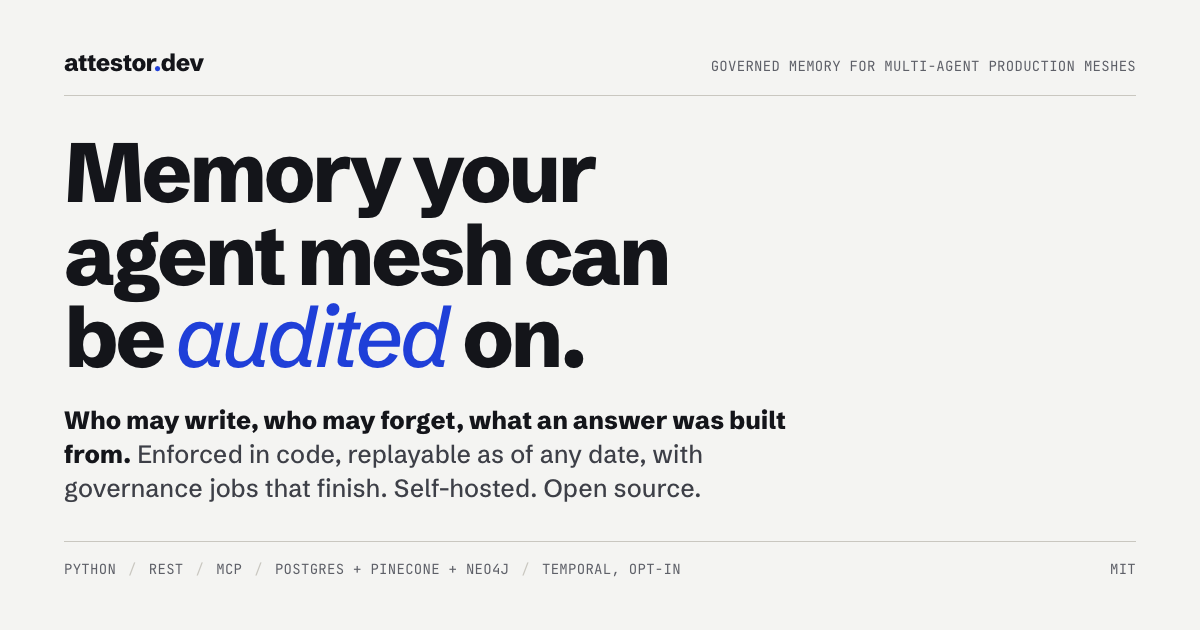
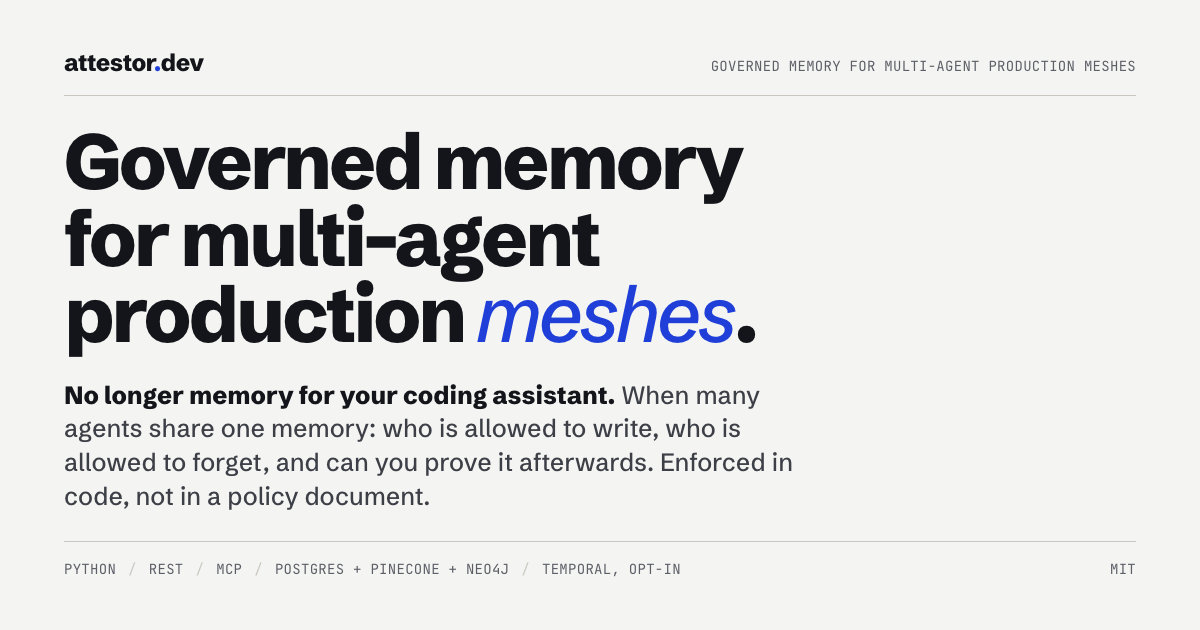
docs(positioning): the site follows the positioning statement (#190)
The landing page and README intro now carry the argument for the pivot,
in the author's words, not only its conclusion:

- hero: "Governed memory for multi-agent production meshes." with the
  deck "Attestor is no longer memory for your coding assistant. When many
  agents share one memory: who is allowed to write, who is allowed to
  forget, and can you prove it afterwards."
- "Three things happened": editor vendors shipped memory for free, the
  benchmark race became a race about which LLM answers, every serious
  conversation was about write / forget / prove. So that is what
  Attestor is now.
- "What that means in the code, not the deck": each enforcement row now
  leads with the statement's sentence (reviewers are read-only because a
  reviewer that writes contaminates the evidence trail; what the mesh
  believed last Tuesday; audit row first, per-backend counts, partial
  failure visible never silent; tenant isolation on all three stores, not
  only the database; the governance jobs themselves are durable), with the
  file references and limits kept underneath.
- "That is the whole pitch": every row names the file, the limits are
  written next to the claims, and if a memory layer cannot show the
  enforcing line it is a policy document.
- closing band is the statement's ask: regulated-setting agent meshes,
  "I would like to talk", linking to the author's LinkedIn.
- README intro gains the same "no longer memory for your coding assistant"
[…]

Changed region(s): [[0.0308, 0.2111, 0.6783, 0.8143]]

diff --git a/docs/index.html b/docs/index.html
@@ -6,7 +6,7 @@
 <meta name="color-scheme" content="light dark">
 <title>Attestor: governed memory for multi-agent production meshes</title>
 <meta name="description" content="Self-hosted memory for agent meshes that have to answer to someone. Role-based access, provenance on every memory, per-agent budgets, a deterministic read path, as_of replay, hard tenant isolation, auditable forget. MIT.">
-<meta property="og:title" content="Attestor: memory your agent mesh can be audited on">
+<meta property="og:title" content="Attestor: governed memory for multi-agent production meshes">
 <meta property="og:description" content="Who may write, who may forget, what an answer was built from. Enforced in code, not in a policy document. Open source, MIT.">
 <meta property="og:image" content="https://attestor.dev/og-image.png">
 <meta property="og:type" content="website">
@@ -114,7 +114,7 @@ h2 em{font-style:italic;font-weight:500;color:var(--acc)}
 .group h3{font-size:clamp(24px,2.4vw,30px);line-height:1.05;font-weight:700;letter-spacing:-0.025em;color:var(--ink)}
 .group .thesis{margin-top:12px;font-size:16px;color:var(--ink2);max-width:30ch}
 .items{display:grid;gap:26px}
-.item h4{font-size:20px;font-weight:600;line-height:1.25;letter-spacing:-0.01em;color:var(--ink)}
+.item h4{font-size:20px;font-weight:600;line-height:1.25;letter-spacing:-0.01em;color:var(--ink);max-width:40ch}
 .item h4 code{font-weight:400}
 .item p{margin-top:6px;font-size:15.5px;line-height:1.55;color:var(--ink2);max-width:62ch}
 .item p strong{color:var(--ink);font-weight:600}
@@ -202,7 +202,7 @@ h2 em{font-style:italic;font-weight:500;color:var(--acc)}
 :root[data-theme="dark"] .band{background:var(--bg3);color:var(--ink)}
 @media(prefers-color-scheme:dark){:root:not([data-theme="light"]) .band{background:var(--bg3);color:var(--ink)}}
 @media(max-width:860px){.band{grid-template-columns:1fr;padding:40px 28px}}
-.band h2{color:inherit;font-size:clamp(26px,3vw,40px);max-width:22ch}
+.band h2{color:inherit;font-size:clamp(26px,3vw,40px);max-width:24ch}
 .band p{margin-top:14px;font-size:17px;opacity:.8;max-width:44ch}
 .band-cta{display:flex;gap:12px;flex-wrap:wrap;justify-content:flex-end}
 @media(max-width:860px){.band-cta{justify-content:flex-start}}
@@ -236,8 +236,8 @@ footer{border-top:1px solid var(--line);padding:32px 0 56px}
 
   <header class="hero">
     <div>
-      <h1 class="rise">Memory your agent mesh can be <em>audited</em> on.</h1>
-      <p class="lede rise">Who may write, who may forget, and what an answer was built from: enforced in code, not in a policy document.</p>
+      <h1 class="rise">Governed memory for multi-agent production <em>meshes</em>.</h1>
+      <p class="lede rise">Attestor is no longer memory for your coding assistant. When many agents share one memory: who is allowed to write, who is allowed to forget, and can you prove it afterwards.</p>
       <div class="hero-cta rise">
         <a href="inside_attestor.html" class="btn btn-p btn-lg">Read the architecture</a>
         <a href="https://github.com/bolnet/attestor" class="btn btn-s btn-lg">Read the source</a>
@@ -262,8 +262,8 @@ mem.<span class="fn">recall</span>(<span class="kw">"..."</span>, context=ctx,
   </header>
 
   <section id="why">
-    <h2>Recall is the <em>easy</em> part.</h2>
-    <p class="sec-lede">Any vector store can hand an agent something relevant. A mesh in production has a harder problem: the memory is shared, the agents are not equally trusted, and one day someone who was not in the room will ask how a decision was made.</p>
+    <h2>Three things <em>happened</em>.</h2>
+    <p class="sec-lede">For a few months this was a memory layer for coding assistants. Then the editor vendors shipped memory for free. The benchmark race became a race about which LLM answers the question. And every serious conversation was about something else entirely: when many agents share one memory, who is allowed to write, who is allowed to forget, and can you prove it afterwards. So that is what Attestor is now.</p>
     <div class="qs">
       <div class="q">
         <h3>Who wrote this, on whose behalf?</h3>
@@ -281,8 +281,8 @@ mem.<span class="fn">recall</span>(<span class="kw">"..."</span>, context=ctx,
   </section>
 
   <section id="governance">
-    <h2>Every write has an author. Every read has a ranking you can <em>replay</em>.</h2>
-    <p class="sec-lede">Each guarantee below is a property of the code, with the file that enforces it. If it is not in the code, it is not on this page.</p>
+    <h2>What that means in the code, not the <em>deck</em>.</h2>
+    <p class="sec-lede">Every row names the file that enforces it, and the limits are written down next to the claims.</p>
 
     <div class="groups">
       <div class="group">
@@ -292,17 +292,17 @@ mem.<span class="fn">recall</span>(<span class="kw">"..."</span>, context=ctx,
         </div>
         <div class="items">
           <div class="item">
-            <h4>Role-based access, six roles</h4>
-            <p><strong>ORCHESTRATOR</strong> may read, write and forget. <strong>PLANNER</strong>, <strong>EXECUTOR</strong> and <strong>RESEARCHER</strong> may read and write. <strong>REVIEWER</strong> and <strong>MONITOR</strong> read only, because a reviewer that writes contaminates the evidence trail. <code>read_only=True</code> strips write and forget regardless of role. A violation raises before any backend is touched.</p>
+            <h4>Six roles gate write and forget before any backend is touched.</h4>
+            <p>Reviewers and monitors are read-only, because a reviewer that writes contaminates the evidence trail. <strong>ORCHESTRATOR</strong> may read, write and forget. <strong>PLANNER</strong>, <strong>EXECUTOR</strong> and <strong>RESEARCHER</strong> may read and write. <strong>REVIEWER</strong> and <strong>MONITOR</strong> read only. <code>read_only=True</code> strips write and forget regardless of role. A violation raises before any backend is touched.</p>
             <span class="src">attestor/context.py · ROLE_PERMISSIONS</span>
           </div>
           <div class="item">
-            <h4>Per-agent budgets and write quotas</h4>
+            <h4>Per-agent budgets and write quotas contain a misbehaving sub-agent by construction.</h4>
             <p>A token budget bounds what <code>recall()</code> packs for one context. A per-context write cap and a per-user daily quota bound what can be added. The cap is a property of the context, so a misbehaving sub-agent is contained by construction.</p>
             <span class="src">attestor/context.py · attestor/core/agent_memory.py</span>
           </div>
           <div class="item">
-            <h4>Hard tenant isolation, all three stores</h4>
+            <h4>Tenant isolation on all three stores, not only the database.</h4>
             <p>Postgres row-level security keyed to the current user, with namespace stamped into metadata. Pinecone: one index, a namespace partition on every call. Neo4j: a namespace property with a composite constraint and namespace-scoped traversal. The PageRank projection is global and is a ranking signal only.</p>
             <span class="src">attestor/store/schema.sql · pinecone_backend.py · neo4j_backend.py</span>
           </div>
@@ -316,17 +316,17 @@ mem.<span class="fn">recall</span>(<span class="kw">"..."</span>, context=ctx,
         </div>
         <div class="items">
           <div class="item">
-            <h4>Provenance on every memory</h4>
-            <p>Every write carries agent, session, namespace and role. Child contexts accumulate an agent trail, so "which agent said this, on whose behalf" is always answerable. Rows leave only through an explicit forget, a retention delete policy, or <code>compact()</code>. Optional Ed25519 signing gives cryptographic non-repudiation, verified with <code>verify_memory()</code>.</p>
+            <h4>Every memory carries which agent wrote it, in which session, on whose behalf.</h4>
+            <p>Optional Ed25519 signatures, verifiable later. Child contexts accumulate an agent trail, so "which agent said this, on whose behalf" is always answerable. Rows leave only through an explicit forget, a retention delete policy, or <code>compact()</code>. Signatures are verified with <code>verify_memory()</code>.</p>
             <span class="src">attestor/context.py · attestor/identity/signing.py</span>
           </div>
           <div class="item">
-            <h4>Temporal supersession, <code>as_of</code> replay</h4>
-            <p>Contradictions supersede older facts; supersession never deletes. Every fact carries valid time and transaction time. <code>recall(as_of=…)</code> filters candidates on transaction time at document hydration and in the BM25 lane. The Pinecone lane ignores <code>as_of</code> and says so in the log.</p>
+            <h4>Contradictions supersede instead of overwriting. You can ask what the mesh believed last Tuesday.</h4>
+            <p>Every fact has valid time and transaction time. Supersession never deletes. <code>recall(as_of=…)</code> filters candidates on transaction time at document hydration and in the BM25 lane. The Pinecone lane ignores <code>as_of</code> and says so in the log.</p>
             <span class="src">attestor/temporal/manager.py</span>
           </div>
           <div class="item">
-            <h4>Deterministic read path</h4>
+            <h4>The read path is deterministic. No model scores anything by default.</h4>
             <p>Ranking is vector, BM25, RRF, graph, MMR, budget fit, in that order, with no LLM in scoring by default. The optional reranker is off by default. Same query, same order: unit-testable, replayable, explainable to an auditor line by line.</p>
             <span class="src">attestor/retrieval/orchestrator/core.py · scorer.py · reranker.py</span>
           </div>
@@ -340,20 +340,20 @@ mem.<span class="fn">recall</span>(<span class="kw">"..."</span>, context=ctx,
         </div>
         <div class="items">
           <div class="item">
-            <h4>Auditable forget-user and retention</h4>
-            <p><code>forget_user()</code> writes an RLS-exempt audit row <strong>before</strong> deleting, then walks document, state, vector and graph and reports per-backend counts, so partial success is visible rather than silent. Declarative retention policies (archive or delete) apply first and write the audit row after. Full export for subject-access requests.</p>
+            <h4>Forgetting a user writes the audit row first, then walks every store and reports per-backend counts.</h4>
+            <p>Partial failure is visible, never silent. <code>forget_user()</code> writes an RLS-exempt audit row before deleting, then walks document, state, vector and graph. Declarative retention policies (archive or delete) apply first and write the audit row after. Full export for subject-access requests.</p>
             <span class="src">attestor/compliance/retention.py</span>
           </div>
           <div class="item">
-            <h4>Durable governance jobs</h4>
-            <p>Consolidation, derived-state rebuild, retention sweeps, session sweeps and the forget-user saga run as Temporal workflows with retry policies, resumable after a crash, visible in an operator UI. Opt-in; job state only. Postgres stays the source of truth. <a href="#durable">How it is wired.</a></p>
+            <h4>The governance jobs themselves are durable.</h4>
+            <p>Consolidation, derived-state repair, the forget saga and retention sweeps run as Temporal workflows with retry policies and an operator UI. Opt-in; job state only. Postgres stays the source of truth. <a href="#durable">How it is wired.</a></p>
             <span class="src">attestor/durable/workflows/ · attestor/durable/activities/</span>
           </div>
         </div>
       </div>
     </div>
 
-    <p class="frame"><strong>How to evaluate it.</strong> The nearest neighbours are the temporal-knowledge-graph memory layers (Zep, Graphiti). For a production mesh the useful comparison is not benchmark accuracy. It is whether the memory layer itself enforces roles, budgets, tenancy, provenance and auditable deletion, or leaves each of those to the calling application. Hold every option, including this one, to the list above with file references.</p>
+    <p class="frame"><strong>That is the whole pitch.</strong> Every row above names the file that enforces it, and the limits are written down next to the claims. If your memory layer cannot show you the enforcing line, it is a policy document. Hold every option to that, including the temporal-knowledge-graph layers (Zep, Graphiti) and this one.</p>
   </section>
 
   <section id="read">
@@ -485,12 +485,12 @@ $ attestor quickstart</div>
 
   <div class="band">
     <div>
-      <h2>If your memory layer cannot show you the enforcing line, it is a policy document.</h2>
-      <p>Roles, budgets, tenancy, provenance, replay, auditable forget, durable jobs: every row above names the file. Hold every option to that, including this one.</p>
+      <h2>If you run agent meshes in a regulated setting and this is the problem you have, I would like to talk.</h2>
+      <p>Self-hosted, MIT, Python. Designed and built by Surendra Singh.</p>
     </div>
     <div class="band-cta">
-      <a href="inside_attestor.html" class="btn btn-p btn-lg">Read the architecture</a>
-      <a href="https://github.com/bolnet/attestor" class="btn btn-s btn-lg">Read the source</a>
+      <a href="https://www.linkedin.com/in/singhsurendra/" class="btn btn-p btn-lg">Talk to me</a>
+      <a href="inside_attestor.html" class="btn btn-s btn-lg">Read the architecture</a>
     </div>
   </div>
 
@@ -503,7 +503,7 @@ $ attestor quickstart</div>
       <a href="https://pypi.org/project/attestor/">PyPI</a>
       <a href="inside_attestor.html">Architecture</a>
     </div>
-    <div>Attestor is MIT-licensed. Governed memory for multi-agent production meshes.</div>
+    <div>Self-hosted, MIT, Python. Governed memory for multi-agent production meshes.</div>
   </div>
 </footer>
 

diff --git a/docs/og/og-card.html b/docs/og/og-card.html
@@ -13,7 +13,7 @@ body{background:#f4f4f2;color:#14151a;font-family:'Schibsted Grotesk',Helvetica,
 .brand span{color:#1f3fd8}
 .mono{font-family:'JetBrains Mono',monospace;font-size:14px;color:#5e6068;letter-spacing:0.02em}
 .mid{margin:auto 0;padding:6px 0}
-h1{font-size:84px;line-height:0.98;letter-spacing:-0.04em;font-weight:800;max-width:14ch;text-wrap:balance}
+h1{font-size:78px;line-height:0.98;letter-spacing:-0.04em;font-weight:800;max-width:15ch;text-wrap:balance}
 h1 em{font-style:italic;font-weight:500;color:#1f3fd8}
 .deck{margin-top:26px;font-size:25px;line-height:1.35;color:#3d3f47;max-width:50ch;text-wrap:pretty}
 .deck b{color:#14151a;font-weight:800}
@@ -26,8 +26,8 @@ h1 em{font-style:italic;font-weight:500;color:#1f3fd8}
     <div class="mono">GOVERNED MEMORY FOR MULTI-AGENT PRODUCTION MESHES</div>
   </div>
   <div class="mid">
-    <h1>Memory your agent mesh can be <em>audited</em> on.</h1>
-    <p class="deck"><b>Who may write, who may forget, what an answer was built from.</b> Enforced in code, replayable as of any date, with governance jobs that finish. Self-hosted. Open source.</p>
+    <h1>Governed memory for multi-agent production <em>meshes</em>.</h1>
+    <p class="deck"><b>No longer memory for your coding assistant.</b> When many agents share one memory: who is allowed to write, who is allowed to forget, and can you prove it afterwards. Enforced in code, not in a policy document.</p>
   </div>
   <div class="bot">
     <div class="mono"><span>PYTHON</span><span>REST</span><span>MCP</span><span>POSTGRES + PINECONE + NEO4J</span><span>TEMPORAL, OPT-IN</span></div>

diff --git a/README.md b/README.md
@@ -2,6 +2,8 @@
 
 **Governed memory for multi-agent production meshes.**
 
+Attestor is no longer "memory for your coding assistant." Three things happened: the editor vendors shipped memory for free, the benchmark race became a race about which LLM answers the question, and every serious conversation about a memory layer was about something else entirely: when many agents share one memory, who is allowed to write, who is allowed to forget, and can you prove it afterwards. So that is what Attestor is now.
+
 When many agents share one memory, recall is the easy part. The hard part is who may write, who may forget, what an answer was built from, and whether you can prove all of it later. Attestor is a self-hosted memory service that makes those properties enforceable in code rather than in policy documents: role-based access at the `AgentContext` layer, provenance on every memory (optionally Ed25519-signed), per-agent token budgets and write quotas, a deterministic ranking path with no LLM in it, temporal supersession you can query as of any past moment, hard tenant isolation across all three storage roles, an auditable, audit-first forget-user path with declarative retention, and governance jobs that run as durable Temporal workflows: retried by policy, resumed after a crash, visible in an operator UI, and never on the read path. It runs as a Python library, a REST sidecar, or an MCP server with the same API. Role enforcement is an `AgentContext` guarantee and runs in process. The REST and MCP surfaces call the store directly and rely on their own auth.
 
 ```python
